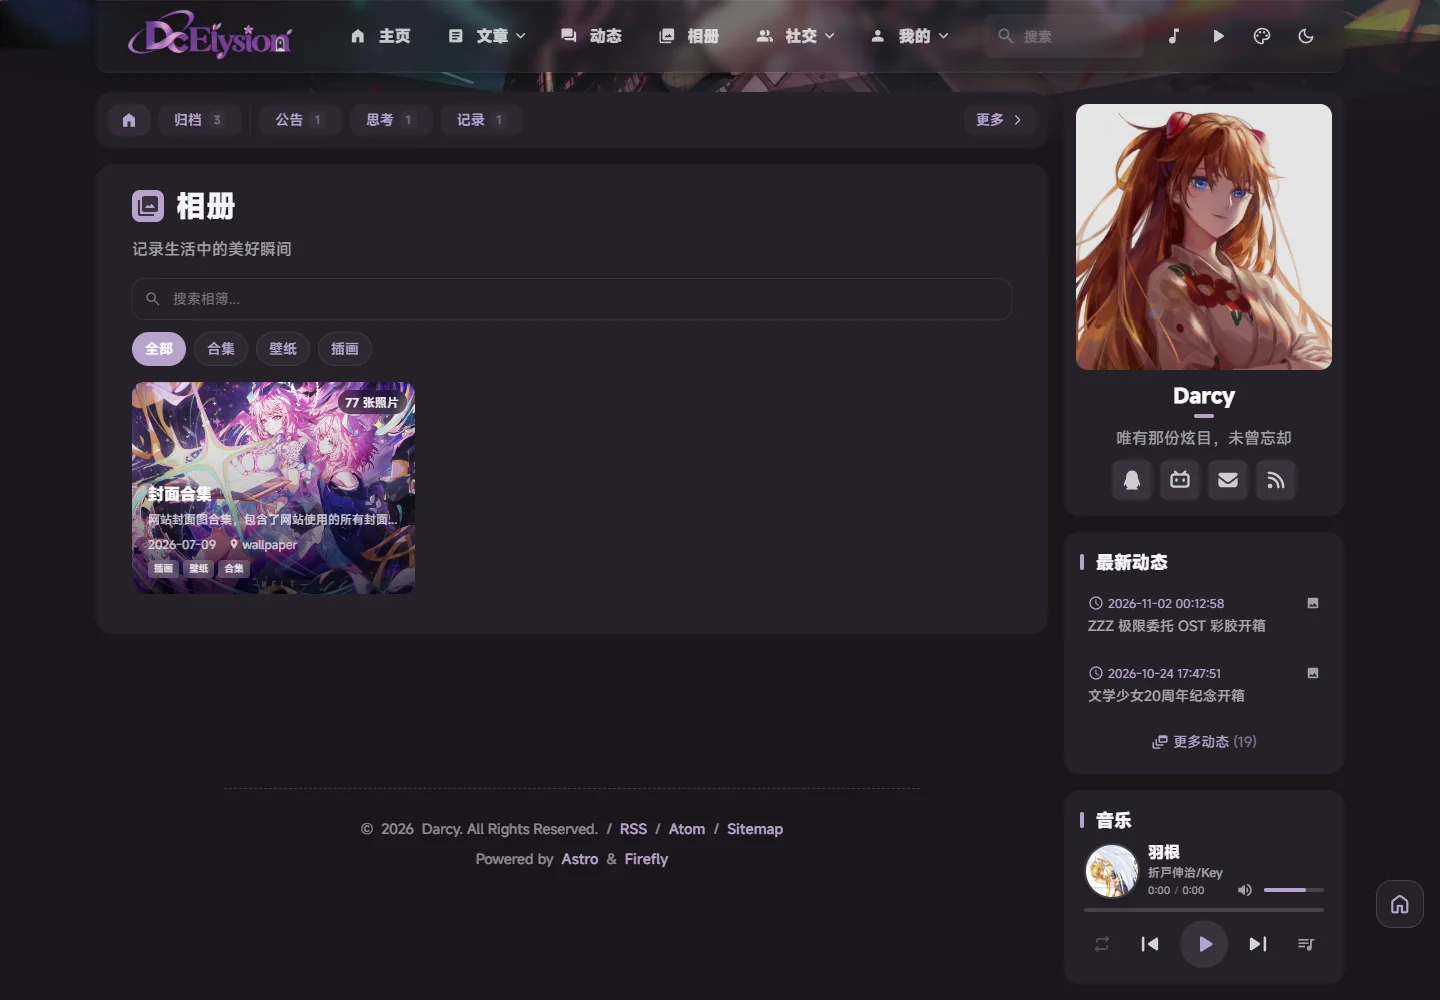
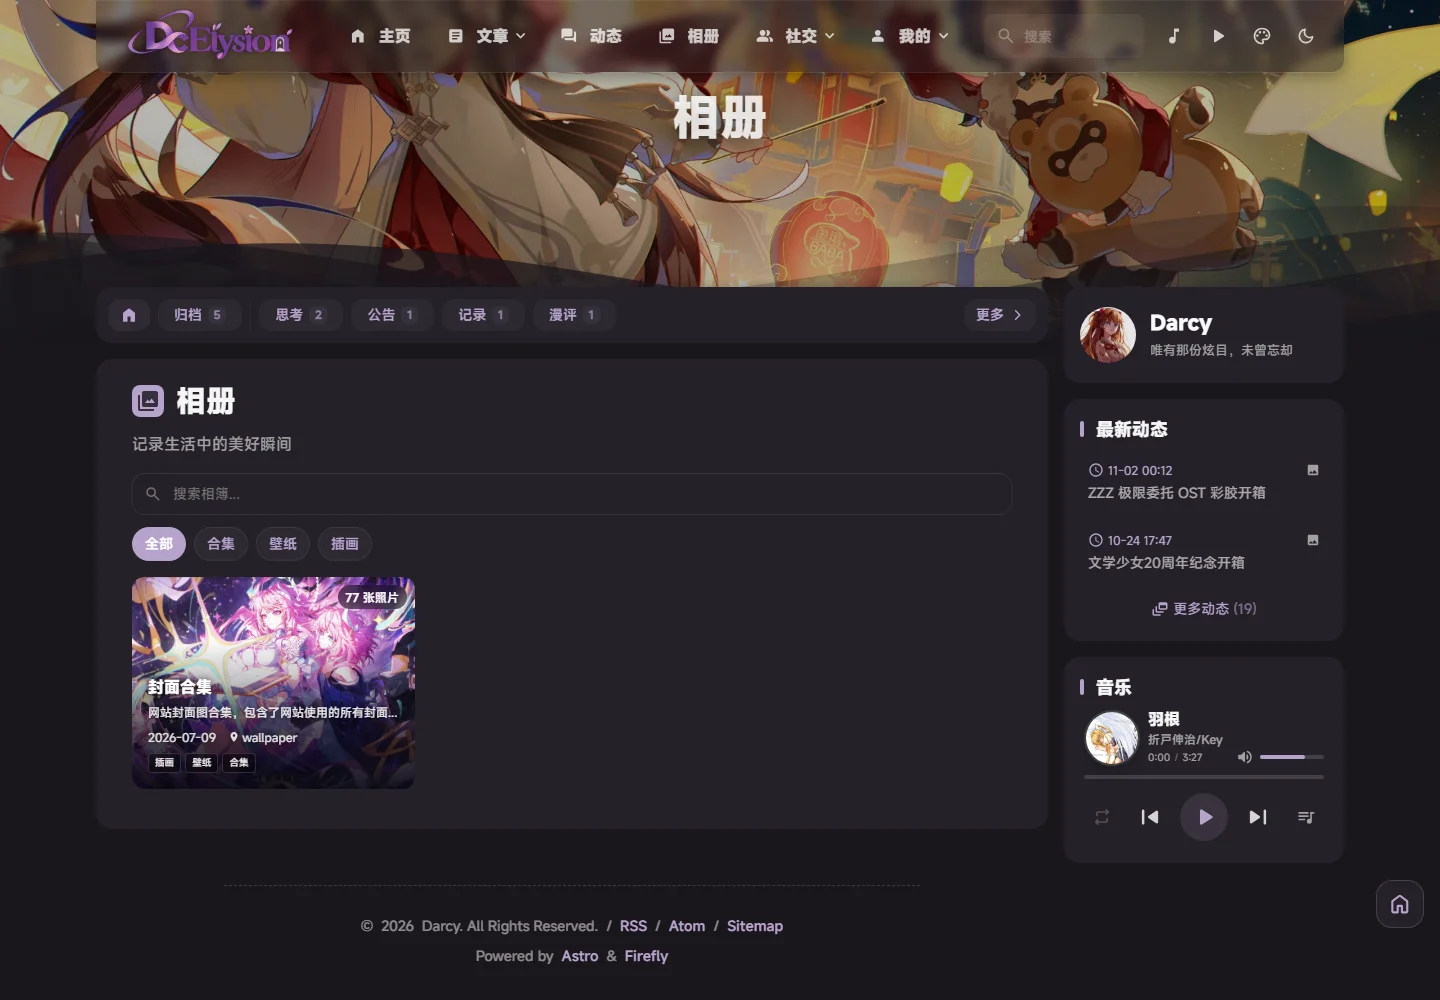
feat(ui): improve card contrast, waline borders, and compact profile scope

diff --git a/src/components/pages/vndb/Card.svelte b/src/components/pages/vndb/Card.svelte
@@ -165,46 +165,72 @@ function handleError(e: Event) {
       </div>
     {/if}
 
-    <div class="absolute inset-0 bg-linear-to-t from-black/70 via-black/20 to-transparent"></div>
-    <div class="absolute bottom-0 left-0 right-0 p-3">
-      <h3 class="font-bold text-sm text-white line-clamp-2 drop-shadow-lg">{title}</h3>
-      {#if altTitle}
-        <p class="text-xs text-white/60 mt-0.5 line-clamp-1">{altTitle}</p>
-      {/if}
-      {#if year || lengthText}
-        <p class="text-xs text-white/70 mt-1">
+    <div class="vndb-scrim absolute inset-0 pointer-events-none transition-opacity duration-300 motion-reduce:transition-none" aria-hidden="true"></div>
+    <div class="vndb-scrim-hover absolute inset-0 pointer-events-none opacity-0 group-hover:opacity-100 group-focus-visible:opacity-100 transition-opacity duration-300 motion-reduce:transition-none" aria-hidden="true"></div>
+    <div class="absolute bottom-0 left-0 right-0 p-3 z-10">
+      <h3 class="font-bold text-sm text-white line-clamp-2 drop-shadow-[0_1px_5px_rgba(0,0,0,0.9)]">{title}</h3>
+      {#if year || lengthText || rating}
+        <p class="text-xs text-white/90 mt-1 line-clamp-1 drop-shadow-[0_1px_3px_rgba(0,0,0,0.85)]">
           {#if year}{year}{/if}
           {#if year && lengthText} · {/if}
           {#if lengthText}{lengthText}{/if}
+          {#if (year || lengthText) && rating} · {/if}
+          {#if rating}<span class="text-yellow-300 font-semibold">&#9733; {rating}</span>{/if}
         </p>
       {/if}
-      {#if playRange}
-        <p class="text-xs text-white/70 mt-1">{playRange}</p>
-      {/if}
-      {#if rating}
-        <p class="text-xs text-white/70 mt-0.5">
-          <span class="text-yellow-300 font-medium">VNDB</span> {rating}
-          {#if voteCount}
-            <span class="text-white/50">· {voteCount} {i18n(I18nKey.vndbVotes)}</span>
-          {/if}
-        </p>
-      {/if}
-      {#if metaText}
-        <p class="text-xs text-white/65 mt-0.5 line-clamp-1" title={metaText}>{metaText}</p>
-      {/if}
-      {#if notes}
-        <p class="text-xs text-white/75 line-clamp-1 mt-1 leading-relaxed" title={notes}>{notes}</p>
+      {#if altTitle || playRange || voteCount || metaText || notes}
+        <div class="vndb-hover-details max-h-0 opacity-0 overflow-hidden group-hover:max-h-40 group-hover:opacity-100 group-focus-visible:max-h-40 group-focus-visible:opacity-100 transition-all duration-300 motion-reduce:transition-none">
+          <div class="mt-1.5 pt-1.5 border-t border-white/15 space-y-0.5 text-[11px] leading-snug text-white/80 drop-shadow-[0_1px_3px_rgba(0,0,0,0.85)]">
+            {#if altTitle}
+              <p class="text-white/75 line-clamp-1" title={altTitle}>{altTitle}</p>
+            {/if}
+            {#if voteCount || playRange}
+              <p class="line-clamp-1">
+                {#if voteCount}<span>{voteCount} {i18n(I18nKey.vndbVotes)}</span>{/if}
+                {#if voteCount && playRange} · {/if}
+                {#if playRange}<span>{playRange}</span>{/if}
+              </p>
+            {/if}
+            {#if metaText}
+              <p class="line-clamp-2 text-white/75" title={metaText}>{metaText}</p>
+            {/if}
+            {#if notes}
+              <p class="text-white/90 line-clamp-2 pt-0.5" title={notes}>{notes}</p>
+            {/if}
+          </div>
+        </div>
       {/if}
       {#if visibleTags.length > 0}
         <div class="flex flex-wrap gap-1 mt-1.5">
           {#each visibleTags as tag}
-            <span class="text-[0.6rem] px-1.5 py-0.5 rounded bg-white/20 text-white/90 backdrop-blur-sm">{tag}</span>
+            <span class="text-[0.6rem] px-1.5 py-0.5 rounded bg-black/45 border border-white/15 text-white/95 backdrop-blur-sm">{tag}</span>
           {/each}
           {#if hiddenTagCount > 0}
-            <span class="text-[0.6rem] px-1.5 py-0.5 rounded bg-white/20 text-white/60 backdrop-blur-sm">+{hiddenTagCount}</span>
+            <span class="text-[0.6rem] px-1.5 py-0.5 rounded bg-black/45 border border-white/15 text-white/75 backdrop-blur-sm">+{hiddenTagCount}</span>
           {/if}
         </div>
       {/if}
     </div>
   </div>
 </a>
+
+<style>
+  .vndb-scrim {
+    background: linear-gradient(
+      to top,
+      rgba(8, 7, 12, 0.94) 0%,
+      rgba(8, 7, 12, 0.72) 24%,
+      rgba(8, 7, 12, 0.3) 44%,
+      transparent 62%
+    );
+  }
+  .vndb-scrim-hover {
+    background: linear-gradient(
+      to top,
+      rgba(8, 7, 12, 0.96) 0%,
+      rgba(8, 7, 12, 0.84) 38%,
+      rgba(8, 7, 12, 0.45) 58%,
+      transparent 76%
+    );
+  }
+</style>

diff --git a/src/components/pages/bangumi/Card.svelte b/src/components/pages/bangumi/Card.svelte
@@ -153,22 +153,26 @@ function handleError(e: Event) {
     {/if}
 
     <!-- Gradient overlay + info -->
-    <div class="absolute inset-0 bg-linear-to-t from-black/70 via-black/20 to-transparent"></div>
-    <div class="absolute bottom-0 left-0 right-0 p-3">
-      <h3 class="font-bold text-sm text-white line-clamp-2 drop-shadow-lg">{title}</h3>
+    <div
+      class="absolute inset-0 pointer-events-none"
+      style="background: linear-gradient(to top, rgba(8, 7, 12, 0.94) 0%, rgba(8, 7, 12, 0.72) 26%, rgba(8, 7, 12, 0.28) 48%, transparent 66%);"
+      aria-hidden="true"
+    ></div>
+    <div class="absolute bottom-0 left-0 right-0 p-3 z-10">
+      <h3 class="font-bold text-sm text-white line-clamp-2 drop-shadow-[0_1px_5px_rgba(0,0,0,0.9)]">{title}</h3>
       {#if year}
-        <p class="text-xs text-white/60 mt-1">{year}</p>
+        <p class="text-xs text-white/85 mt-1 drop-shadow-[0_1px_3px_rgba(0,0,0,0.85)]">{year}</p>
       {/if}
       {#if item.comment}
-        <p class="text-xs text-white/75 line-clamp-1 mt-1 leading-relaxed" title={item.comment}>{item.comment}</p>
+        <p class="text-xs text-white/90 line-clamp-1 mt-1 leading-relaxed drop-shadow-[0_1px_3px_rgba(0,0,0,0.85)]" title={item.comment}>{item.comment}</p>
       {/if}
       {#if visibleTags.length > 0}
         <div class="flex flex-wrap gap-1 mt-1.5">
           {#each visibleTags as tag}
-            <span class="text-[0.6rem] px-1.5 py-0.5 rounded bg-white/20 text-white/90 backdrop-blur-sm">{tag}</span>
+            <span class="text-[0.6rem] px-1.5 py-0.5 rounded bg-black/45 border border-white/15 text-white/95 backdrop-blur-sm">{tag}</span>
           {/each}
           {#if hiddenTagCount > 0}
-            <span class="text-[0.6rem] px-1.5 py-0.5 rounded bg-white/20 text-white/60 backdrop-blur-sm">+{hiddenTagCount}</span>
+            <span class="text-[0.6rem] px-1.5 py-0.5 rounded bg-black/45 border border-white/15 text-white/75 backdrop-blur-sm">+{hiddenTagCount}</span>
           {/if}
         </div>
       {/if}

diff --git a/src/utils/layout-utils.ts b/src/utils/layout-utils.ts
@@ -79,6 +79,27 @@ export const isHomePage = (pathname: string): boolean => {
 	return false;
 };
 
+/**
+ * 侧边栏个人资料卡在首页（含分页）及偏社交页面（关于/友链/留言板）保留完整大卡，
+ * 其余子页面使用紧凑小横卡（compact），为最新动态与播放器腾出首屏空间。
+ */
+export const shouldUseFullProfile = (pathname: string): boolean => {
+	const baseUrl = (import.meta.env.BASE_URL || "/").replace(/\/$/, "");
+	let relative = pathname;
+	if (baseUrl && relative.startsWith(baseUrl)) {
+		relative = relative.slice(baseUrl.length) || "/";
+	}
+	const normalized = relative.replace(/\/+$/, "") || "/";
+	if (normalized === "/" || /^\/\d+$/.test(normalized)) {
+		return true;
+	}
+	return (
+		normalized === "/about" ||
+		normalized === "/friends" ||
+		normalized === "/guestbook"
+	);
+};
+
 // 获取横幅偏移量
 export const getBannerOffset = (position = "center"): string => {
 	const bannerOffsetByPosition = {

diff --git a/src/utils/grid-layout-utils.ts b/src/utils/grid-layout-utils.ts
@@ -2,6 +2,7 @@
  * 主网格列布局与侧边栏可见性 / 吸顶间距管理（从 Layout.astro 迁出）。
  */
 
+import { shouldUseFullProfile } from "@/utils/layout-utils";
 import {
 	resolveSidebarLayout,
 	type SidebarLayoutInput,
@@ -94,8 +95,12 @@ export function updateSidebarComponentsVisibility(): void {
 				(isPostPage && widget.classList.contains("widget-non-post-only"));
 			widget.classList.toggle("hidden", hidden);
 		});
+	const useFullProfile =
+		typeof window !== "undefined"
+			? shouldUseFullProfile(window.location.pathname)
+			: !isPostPage;
 	document.querySelectorAll<HTMLElement>(".profile-card").forEach((profile) => {
-		profile.dataset.variant = isPostPage ? "compact" : "full";
+		profile.dataset.variant = useFullProfile ? "full" : "compact";
 	});
 
 	// 组件可见性变化后刷新吸顶偏移；组间距由 CSS 直接处理。

diff --git a/src/styles/categories.css b/src/styles/categories.css
@@ -10,7 +10,7 @@
 .category-pill .pill-count {
   font-size: 0.7rem;
   font-weight: 600;
-  opacity: 0.5;
+  opacity: 0.72;
   padding: 0.05rem 0.35rem;
   border-radius: 9999px;
   background: color-mix(in srgb, var(--btn-content) 10%, transparent);

diff --git a/docs/agent-reference/architecture.md b/docs/agent-reference/architecture.md
@@ -101,7 +101,7 @@ pnpm build
 - `Layout.astro` 是最底层 HTML 外壳，负责 `<head>`、SEO、favicon、全局 CSS、字体、分析服务、主题初始化、全局音乐/特效、Swup 生命周期和通用浏览器增强。
 - `MainGridLayout.astro` 构建可变壁纸/横幅、导航栏、分类栏、主内容区、左右侧边栏、页脚、悬浮控件和看板娘。普通网格由 `resolveSidebarLayout()` 统一计算输入变量，SSR 写到 `#main-grid`，Swup 换页时更新同一组变量；`layout-base.css` 按 768/1280 断点消费。沉浸阅读以 `body` 状态类提供独立的生效列、正文列号和间距变量，沿用同一网格消费规则；1024px 是进入资格，1200px 是目录由浮层转为 sticky 双列的断点。退出后撤销状态类，即恢复当前普通输入变量。
 
-首页、相册、动态等非文章页面使用内容区与右侧单栏，外层内容宽度限制为 `min(var(--page-width), 80rem)`，避免单侧栏下内容过宽；该限制由 `layout-base.css` 的 `:has()` 路由选择器随 Swup 容器切换生效。复用常驻逻辑左栏的完整作者卡和音乐，在两者之间显示最新动态；其他模块在非文章页面隐藏。文章页继续使用原目录/正文/侧栏网格，仅将 Profile 切换为紧凑头像、名称和签名。SSR 与 `grid-layout-utils.ts` 根据页面类型同步布局、组件可见性和 Profile 变体，不移动侧栏 DOM，保留播放器状态。
+首页、相册、动态等非文章页面使用内容区与右侧单栏，外层内容宽度限制为 `min(var(--page-width), 80rem)`，避免单侧栏下内容过宽；该限制由 `layout-base.css` 的 `:has()` 路由选择器随 Swup 容器切换生效。复用常驻逻辑左栏的作者卡和音乐，在两者之间显示最新动态；其他模块在非文章页面隐藏。其中 Profile 在首页（含分页）及关于/友链/留言板保持完整大卡（`full`），其余子页与文章页统一切换为紧凑小横卡（`compact`：头像、名称和签名），为最新动态与音乐播放器留出首屏空间。SSR 与 `grid-layout-utils.ts` 根据页面路径同步布局、组件可见性和 Profile 变体，不移动侧栏 DOM，保留播放器状态。
 
 非全宽顶部栏在非文章页共用上述 `80rem` 宽度上限，桌面端与内容区两侧对齐；通过 `body:has()` 随 Swup 页面类型切换恢复文章页宽度。`navbar.widthFull` 和移动端原有边距不变。
 
